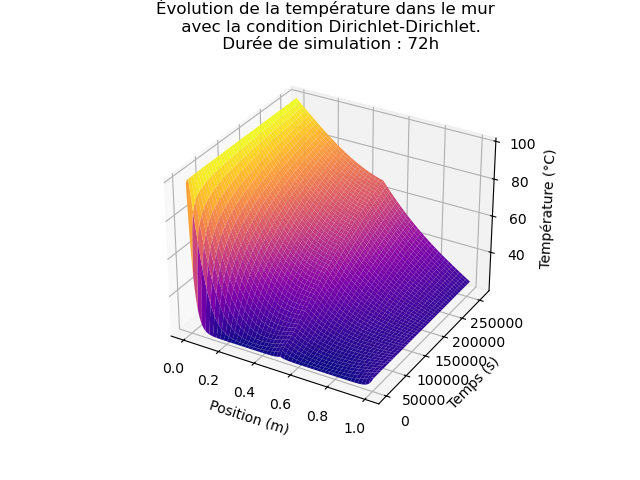
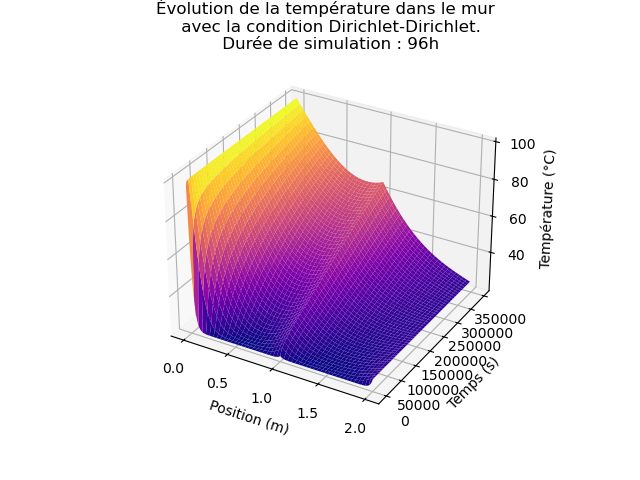
Update wall config and get new image

diff --git a/Jalon1_PELB28120100.py b/Jalon1_PELB28120100.py
@@ -7,29 +7,20 @@ from scipy.linalg import solve_banded
 
 
 
-# ADD GEOMETRIE MULTICOUCHE
-
-
-
+# TODO: ADD GEOMETRIE MULTICOUCHE
 
 ##########################################
 #                Constantes              #
 ##########################################
 
-op=0.9,
-bottom=0.1,
-left=0.12,
-right=0.9,
-hspace=0.2,
-wspace=0.2
 
 
 Form_liste = ["Dirichlet-Dirichlet","Dirichlet-Neuman"]
 # Paramètres physiques
-L = 1  # Dimension = du mur (m)
-l = 1
-h = 1
-k = 1  # Conductivité thermique du béton (W/m·K)
+L = 2  # loongeur Dimension = du mur (m)
+l = 0.30  # Largeur 
+h = 2
+k = 1.5  # Conductivité thermique du béton (W/m·K)
 T_left = 100  # Température à la frontière gauche (°C) - Dirichlet
 T_right_Dirichlet = 25  # Température à la frontière droite (°C) - Dirichlet
 N = 1000  # Nombre de volumes finis
